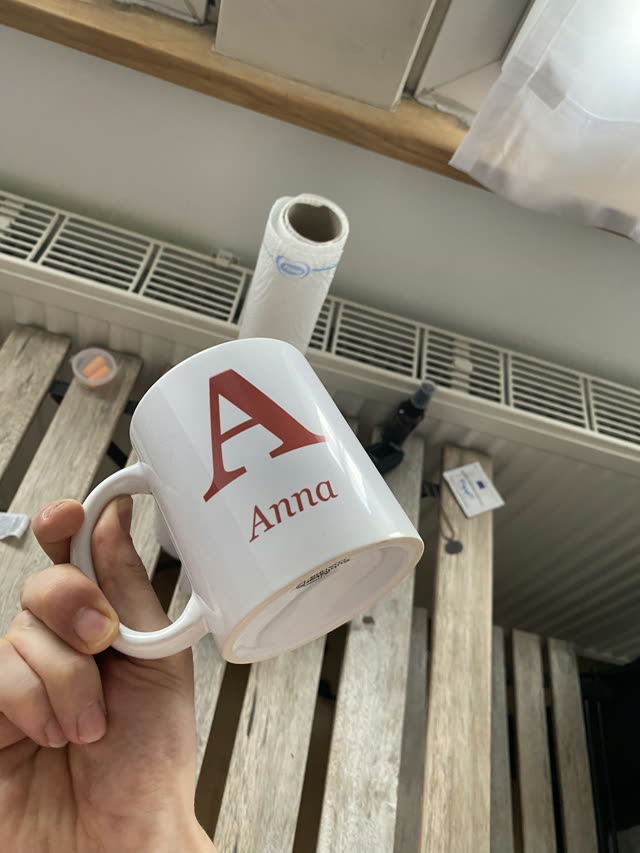
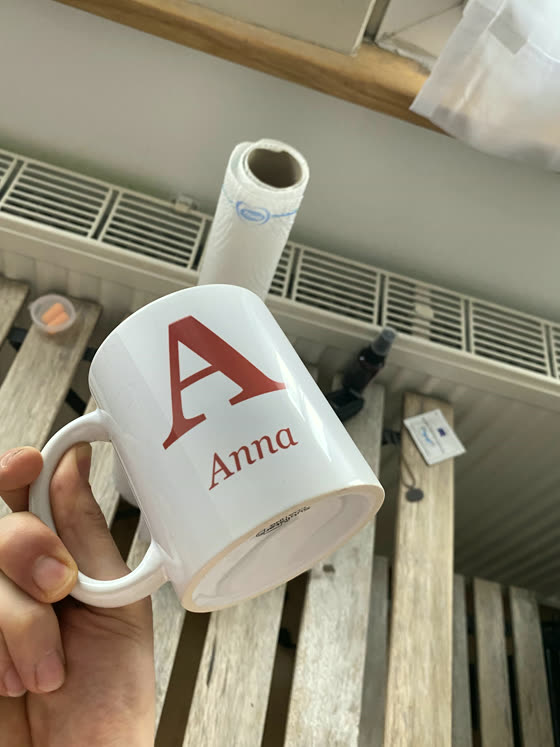
style(startseite): Bilderreihe als Sofortbilder statt als Kachelraster
Vier gleich grosse Kaesten in Reih und Glied lasen sich direkt hinter dem
luftigen Helden wie eine Tabelle. Dazu die harten Ink-Raender und flachen
Versatzschatten der Illustrationskarten: bei Zeichnungen sitzt das, ueber
Handyfotos wirkt es billig.

Jetzt Sofortbilder. Weisser Rand, weicher Schatten statt Versatz, jedes
leicht anders geneigt und in der Hoehe versetzt, Bildunterschrift in der
Handschrift der Marke. Die Schraeglage nimmt der Reihe das Starre und
traegt die Amateurfotos, statt sie zu entlarven. Beim Zeigen richtet sich
das Bild auf und hebt sich. Das Neigungsmuster wiederholt sich alle vier,
damit spaetere Bilder ohne Zutun mitmachen.

Kacheln kleiner (196 statt 244), die Reihe wirkt dadurch wie ein Akzent
und nicht wie ein zweiter Held.

Bilder neu aus dem geaenderten Ordner: das Tischfoto ist entfallen, jetzt
stammen alle vier aus derselben Aufnahme aut der Holzbank, also gleiches
Licht. Enger gezoomt, weil auf zweien viel Bank und wenig Tasse zu sehen
war, und Helligkeit, Sattigung und Kontrast leicht angehoben: gegen das
helle Pastell der Seite wirkten die Fotos sonst grau.

diff --git a/index.html b/index.html
@@ -291,34 +291,53 @@
      und nichts bewegt sich von selbst. Kommen mehr dazu, wird der Streifen
      seitlich scrollbar und die Pfeile blenden sich von allein ein. Feste
      3:4-Kacheln, damit die Zeile ruhig bleibt. */
-  .streifen-block{padding:4px 0 46px;position:relative;z-index:1}
+  .streifen-block{padding:14px 0 50px;position:relative;z-index:1}
   .streifen-kopf{
-    text-align:center;font-size:16px;letter-spacing:.12em;text-transform:uppercase;
-    color:var(--ink-weich);margin-bottom:18px;
+    text-align:center;font-family:var(--hand);font-size:clamp(23px,2.6vw,27px);
+    color:var(--ink-weich);margin-bottom:20px;
   }
   .streifen{
-    display:flex;gap:16px;justify-content:center;
+    display:flex;gap:15px;justify-content:center;align-items:flex-start;
     overflow-x:auto;scroll-snap-type:x proximity;
-    padding:6px 2px 12px;
+    /* Luft rundherum, sonst schneidet der Ueberlauf die schiefen Ecken ab */
+    padding:16px 6px 20px;
     scrollbar-width:thin;scrollbar-color:var(--linie) transparent;
   }
   /* Bei Ueberlauf faellt justify-content:center weg, sonst ist der Anfang
      nicht mehr erreichbar. */
   .streifen.laeuft{justify-content:flex-start}
+
+  /* Fotos vertragen die harten Ink-Raender der Illustrationskarten nicht,
+     das wirkt schnell billig. Stattdessen Sofortbilder: weisser Rand, weicher
+     Schatten, leicht schief. Die Schraeglage nimmt der Reihe das Starre. */
   .streifen figure{
-    flex:0 0 auto;width:clamp(186px,23vw,244px);scroll-snap-align:center;margin:0;
+    flex:0 0 auto;position:relative;margin:0;
+    width:clamp(156px,19.5vw,196px);
+    background:var(--karte);padding:9px 9px 0;border-radius:3px;
+    box-shadow:0 7px 20px rgba(90,74,99,.16), 0 1px 3px rgba(90,74,99,.13);
+    scroll-snap-align:center;
+    transition:transform .2s ease, box-shadow .2s ease;
   }
+  /* Muster wiederholt sich alle vier, damit spaetere Bilder mitmachen */
+  .streifen figure:nth-child(4n+1){transform:rotate(-2.4deg)}
+  .streifen figure:nth-child(4n+2){transform:rotate(1.7deg)  translateY(11px)}
+  .streifen figure:nth-child(4n+3){transform:rotate(-1.1deg) translateY(-3px)}
+  .streifen figure:nth-child(4n+4){transform:rotate(2.3deg)  translateY(8px)}
+  .streifen figure:hover{
+    transform:rotate(0) translateY(-6px);z-index:2;
+    box-shadow:0 14px 30px rgba(90,74,99,.22), 0 1px 3px rgba(90,74,99,.13);
+  }
+  @media (prefers-reduced-motion:reduce){ .streifen figure{transition:none} }
+
   .streifen img{
     /* height:auto ist Pflicht: die height-Attribute im Markup gelten als
        CSS-Hoehe und wuerden aspect-ratio sonst aushebeln. */
     display:block;width:100%;height:auto;aspect-ratio:3/4;object-fit:cover;
-    border:2px solid var(--ink);border-radius:var(--rand);
-    background:var(--karte);box-shadow:0 4px 0 var(--lav);
+    border-radius:2px;background:var(--lav);
   }
-  .streifen figure:nth-child(2n) img{box-shadow:0 4px 0 var(--mint)}
-  .streifen figure:nth-child(3n) img{box-shadow:0 4px 0 var(--blush)}
   .streifen figcaption{
-    text-align:center;font-size:15.5px;color:var(--ink-weich);margin-top:10px;
+    text-align:center;font-family:var(--hand);font-size:20px;line-height:1.15;
+    color:var(--ink);padding:7px 2px 11px;
   }
 
   .str-steuer{display:flex;justify-content:center;gap:14px;margin-top:6px}
@@ -460,22 +479,22 @@
       <p class="streifen-kopf" data-i18n="str_kopf">Echte Tassen aus meiner Werkstatt</p>
       <div class="streifen" id="streifen">
         <figure>
-          <img src="assets/galerie/1-fototasse-vorne.jpg" width="640" height="853"
+          <img src="assets/galerie/1-fototasse-vorne.jpg" width="560" height="747"
                data-i18n-alt="str1_alt" alt="Weiße Tasse mit dem Foto eines Corgis und dem Namen Anna darunter">
           <figcaption data-i18n="str1_cap">Fototasse, vorne</figcaption>
         </figure>
         <figure>
-          <img src="assets/galerie/2-fototasse-hinten.jpg" width="640" height="853" loading="lazy"
+          <img src="assets/galerie/2-fototasse-hinten.jpg" width="560" height="747" loading="lazy"
                data-i18n-alt="str2_alt" alt="Rückseite derselben Tasse mit einem großen roten A und dem Namen Anna">
           <figcaption data-i18n="str2_cap">Dieselbe Tasse, hinten</figcaption>
         </figure>
         <figure>
-          <img src="assets/galerie/3-motivtasse-vorne.jpg" width="640" height="853" loading="lazy"
+          <img src="assets/galerie/3-motivtasse-vorne.jpg" width="560" height="747" loading="lazy"
                data-i18n-alt="str3_alt" alt="Weiße Tasse mit einem japanischen Holzschnitt: Berg Fuji hinter Kiefern">
           <figcaption data-i18n="str3_cap">Motivtasse, vorne</figcaption>
         </figure>
         <figure>
-          <img src="assets/galerie/4-motivtasse-hinten.jpg" width="640" height="853" loading="lazy"
+          <img src="assets/galerie/4-motivtasse-hinten.jpg" width="560" height="747" loading="lazy"
                data-i18n-alt="str4_alt" alt="Rückseite derselben Tasse mit dem Bildtitel Dusk at Tagonoura, Kawase Hasui, 1940">
           <figcaption data-i18n="str4_cap">Dieselbe Tasse, hinten</figcaption>
         </figure>
